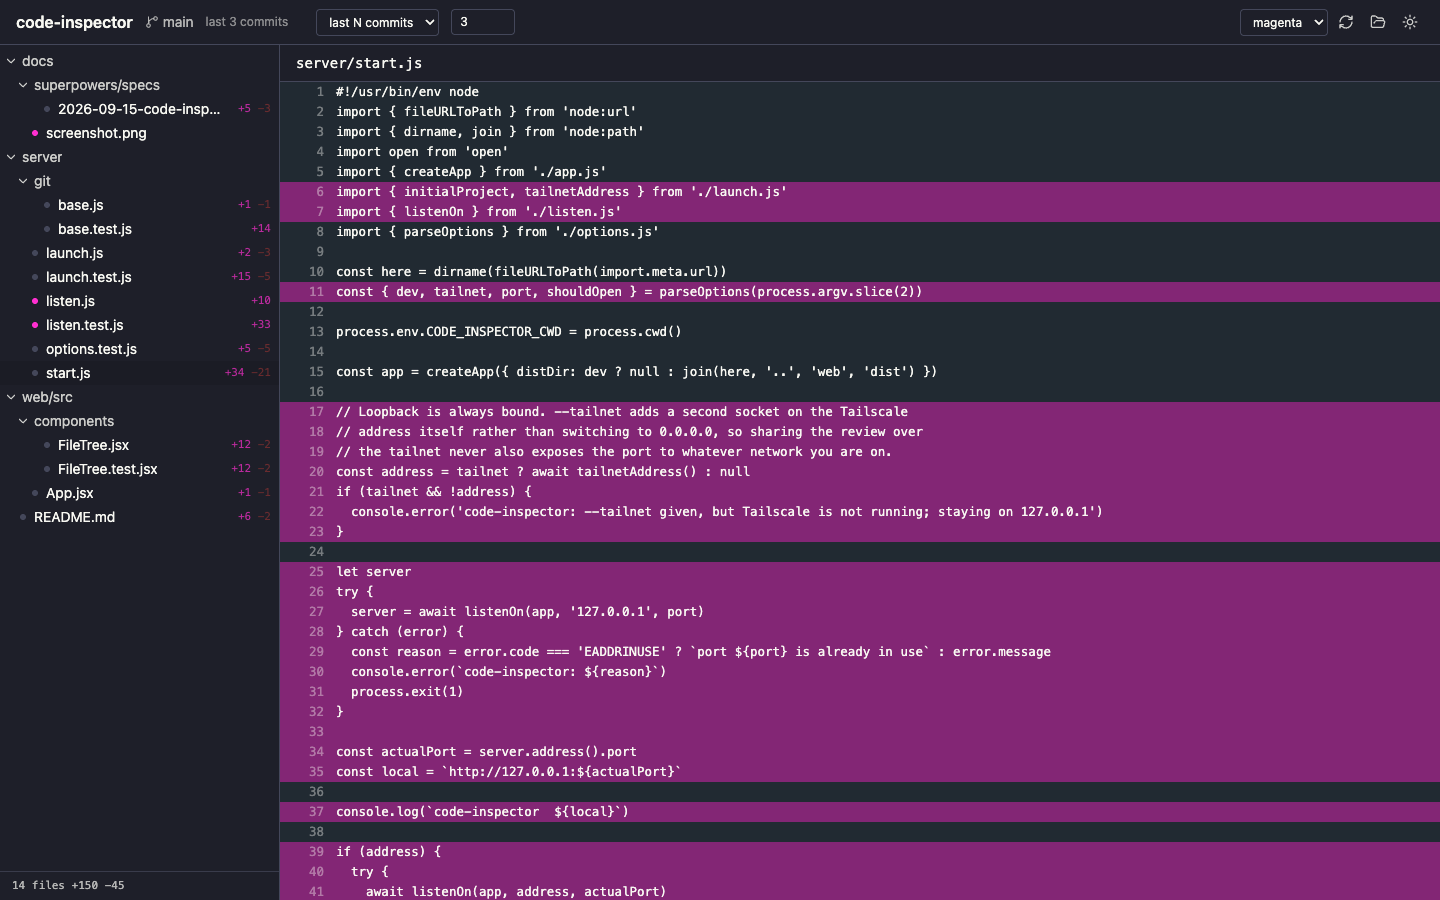
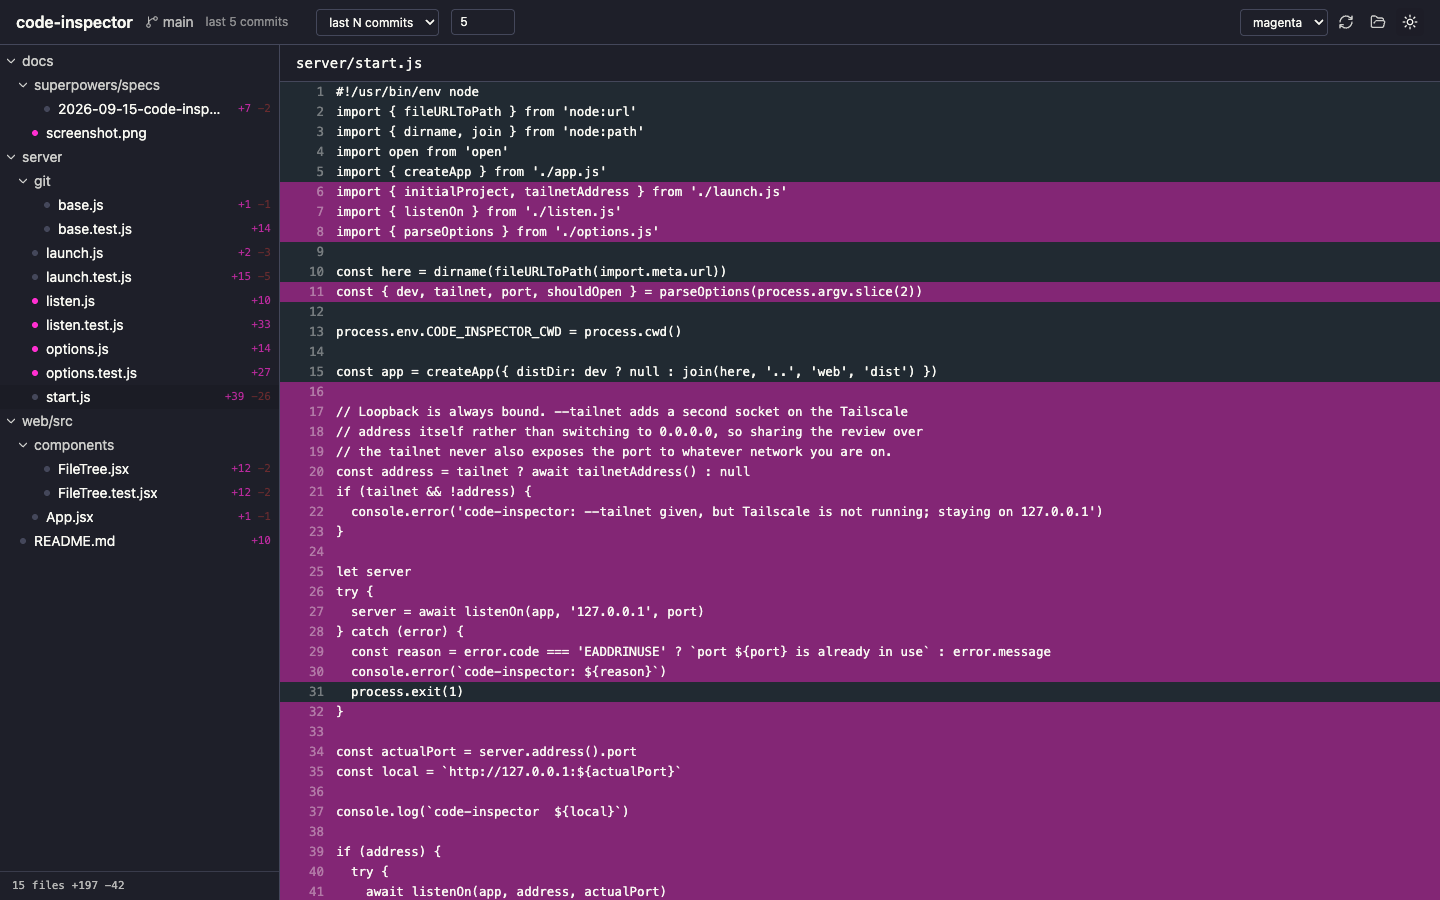
Show the light theme in the README too
Claude-Session: https://claude.ai/code/session_01QyeDrGYidkFJAsJX7HPEAV

diff --git a/README.md b/README.md
@@ -62,6 +62,10 @@ The header dropdown selects what "changed" means:
 the default theme, the maximum file size and the line height. Edit it and reload
 the page; no rebuild is needed.
 
+The sun/moon button in the header switches themes, and the choice is remembered:
+
+![The same view in the light theme: a white background with the changed lines tinted in a paler wash of the same colour](docs/screenshot-light.png)
+
 `~/.config/code-inspector/state.json` is written by the app and holds the last
 project, the recent list and the theme choice.
 
